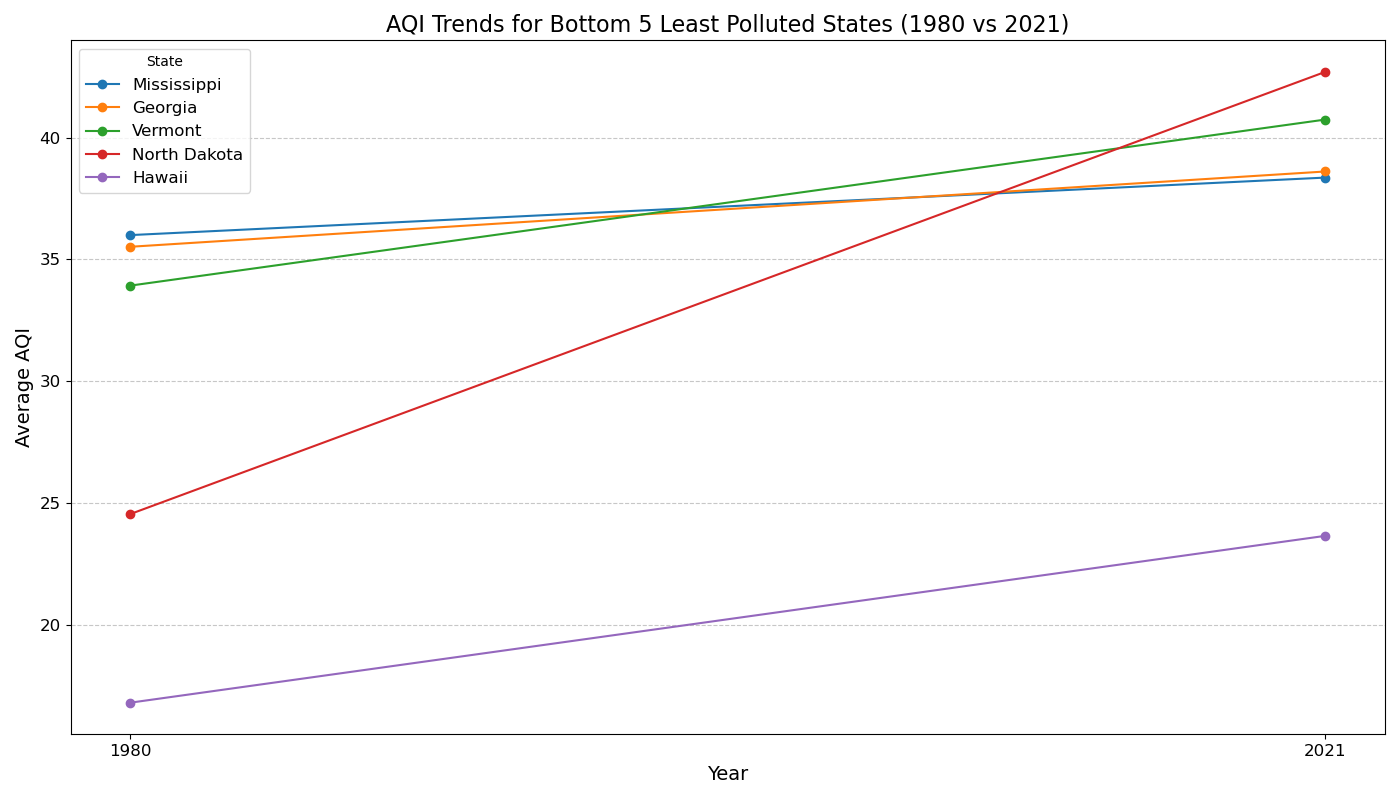
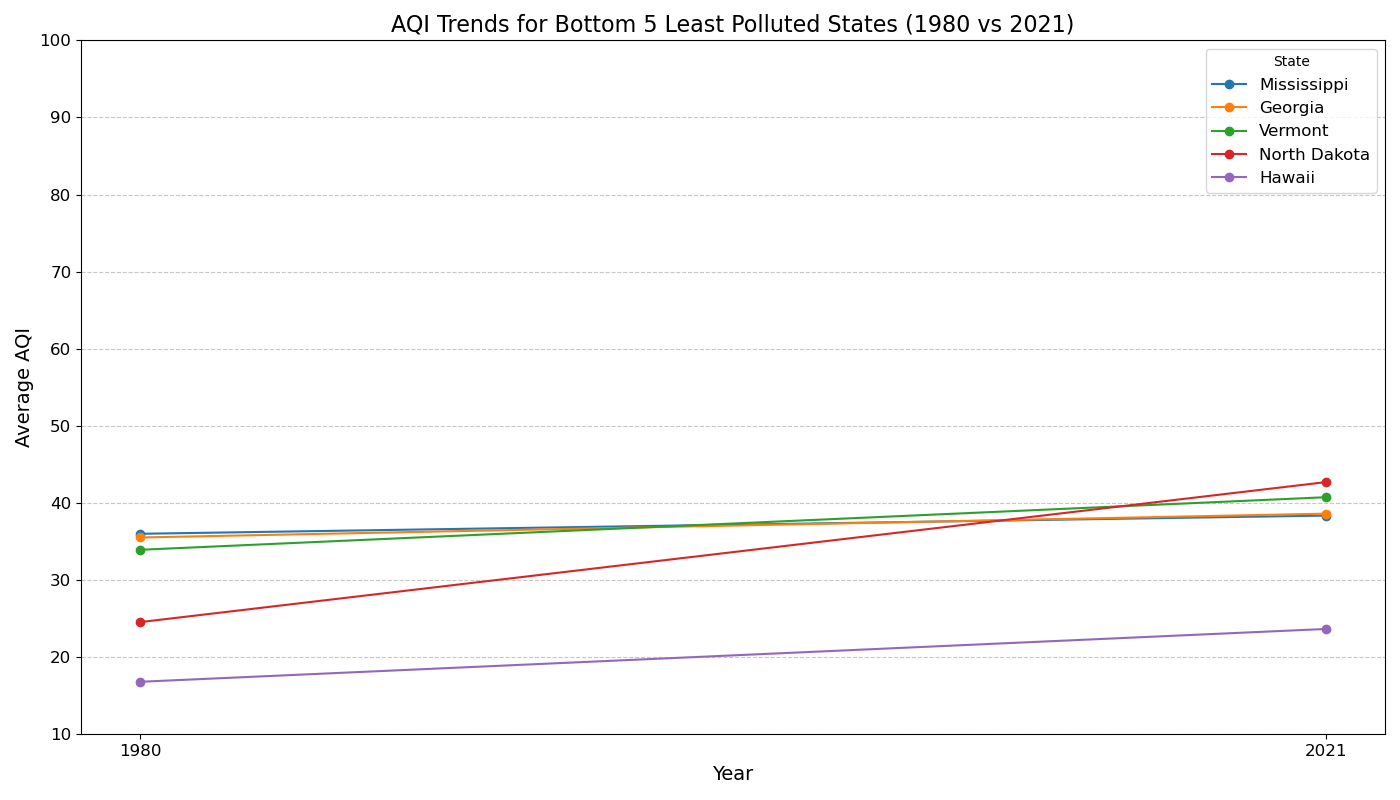
updated static plots

diff --git a/scripts/visualization.py b/scripts/visualization.py
@@ -36,12 +36,13 @@ for state in top_5_states:
 plt.title('AQI Trends for Top 5 Most Polluted States (1980 vs 2021)', fontsize=16)
 plt.xlabel('Year', fontsize=14)
 plt.ylabel('Average AQI', fontsize=14)
+plt.ylim(10, 100)
 plt.xticks([1980, 2021], fontsize=12)
 plt.yticks(fontsize=12)
 plt.legend(title='State', fontsize=12)
 plt.grid(axis='y', linestyle='--', alpha=0.7)
 plt.tight_layout()
-plt.savefig("most_line_aqi_trends.png")
+plt.savefig("static_visualizations/most_line_aqi_trends.png")
 plt.show()
 
 # Line Chart for Bottom 5 Least Polluted States
@@ -53,12 +54,13 @@ for state in bottom_5_states:
 plt.title('AQI Trends for Bottom 5 Least Polluted States (1980 vs 2021)', fontsize=16)
 plt.xlabel('Year', fontsize=14)
 plt.ylabel('Average AQI', fontsize=14)
+plt.ylim(10, 100)
 plt.xticks([1980, 2021], fontsize=12)
 plt.yticks(fontsize=12)
 plt.legend(title='State', fontsize=12)
 plt.grid(axis='y', linestyle='--', alpha=0.7)
 plt.tight_layout()
-plt.savefig("least_line_aqi_trends.png")
+plt.savefig("static_visualizations/least_line_aqi_trends.png")
 plt.show()
 
 # Stacked Bar Chart: AQI Category Distribution by Region
@@ -103,5 +105,5 @@ ax[1].set_xlabel('Region', fontsize=12)
 ax[1].tick_params(axis='x', rotation=45)
 
 plt.tight_layout()
-fig.savefig("stacked_bar_aqi_distribution.png")
+fig.savefig("static_visualizations/stacked_bar_aqi_distribution.png")
 plt.show()
